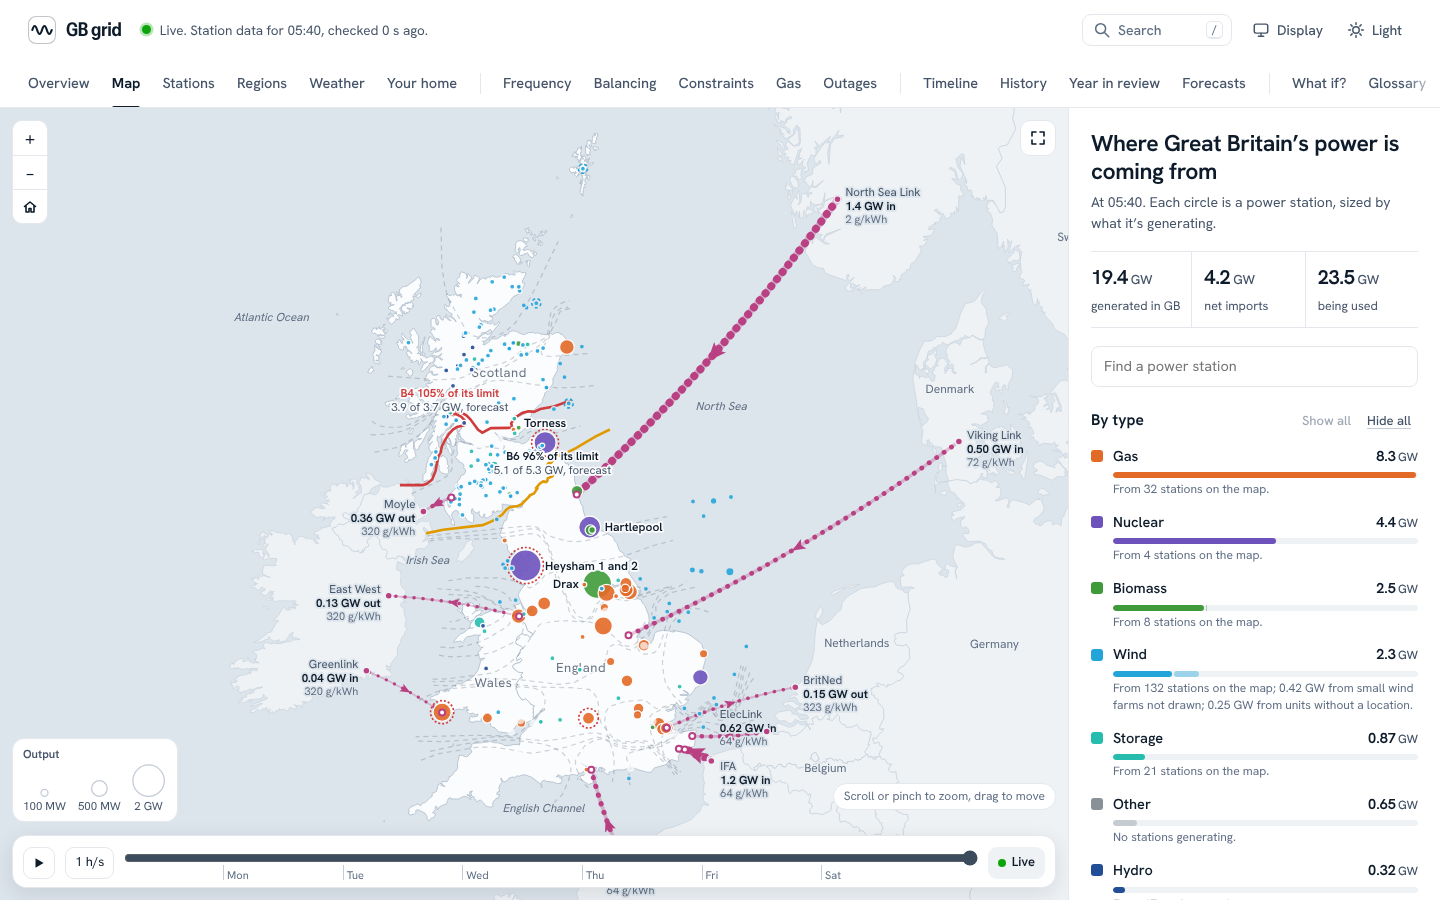
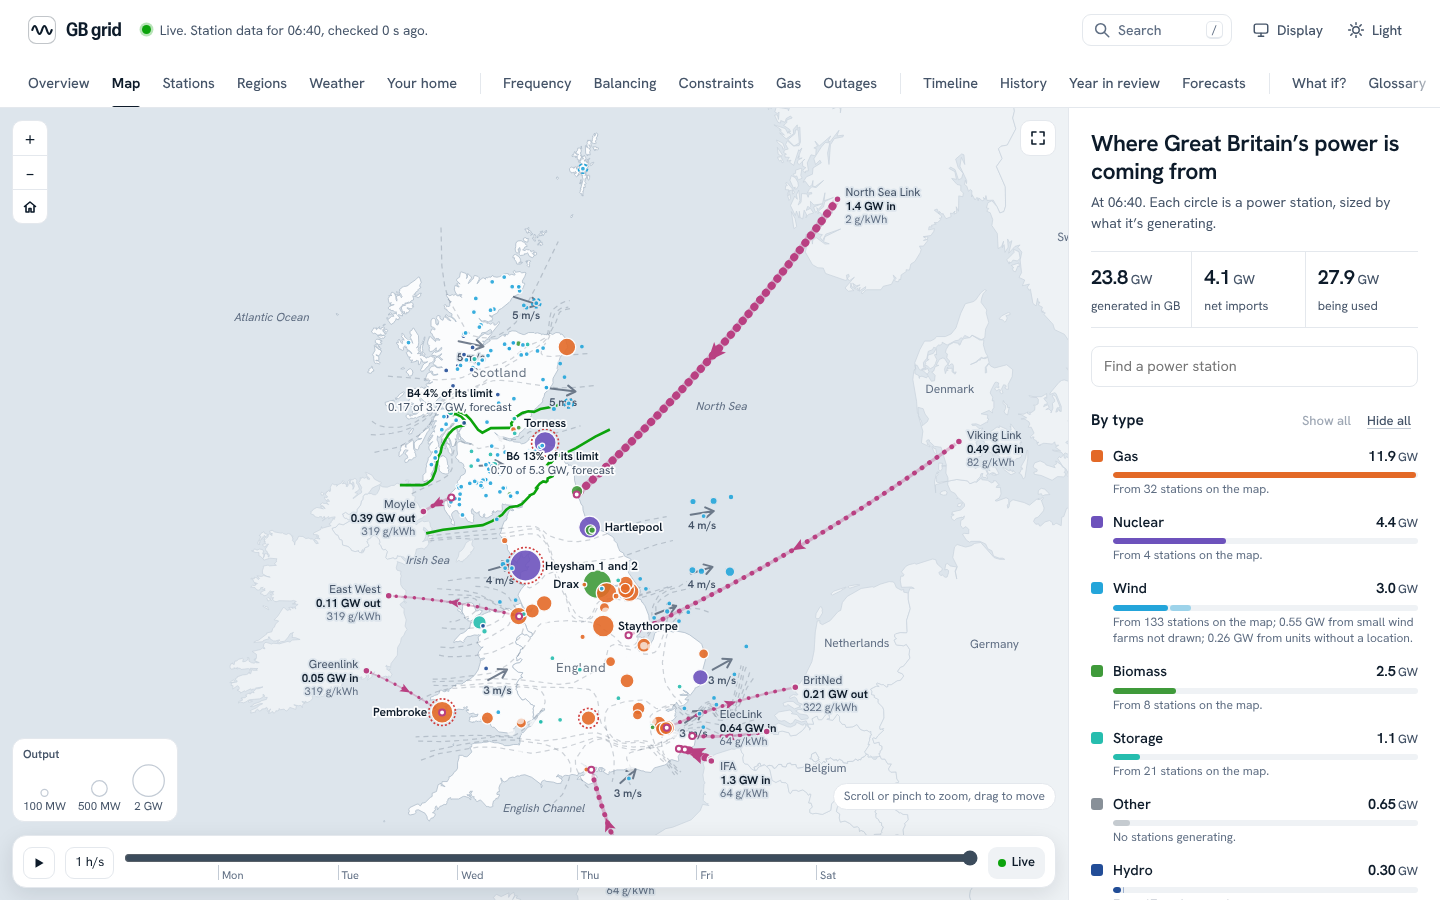
1.17.0: wind arrows on the map
An arrow at each of the Weather page's wind points, pointing the way the
wind blows 100 metres up and longer the stronger it is, with its speed, for
this hour, with its own switch. Wind direction comes in the same hourly
Open-Meteo request as wind speed. /api/map gains wind_points.

Claude-Session: https://claude.ai/code/session_01LW9oaTcT9dkVLCP8NGY6xW

diff --git a/app/static/js/stationmap.js b/app/static/js/stationmap.js
@@ -19,10 +19,11 @@
      onInteract() the person panned, zoomed or dragged
      onKey(e)     page keys first; return true if handled
      onMessage(text or null), onResize()
-     overlays()   which extras to draw: { turned: wind turned down, outages, boundaries }
+     overlays()   which extras to draw: { turned: wind turned down, outages, boundaries, wind }
                   (default: none). Station data can carry dn (MW of wind turned down) and
                   ol ({ lost, end, planned, cause } for an outage now); the payload can carry
-                  boundaries ([{ id, name, flow, lim }]) and neighbour_ci.
+                  boundaries ([{ id, name, flow, lim }]), wind_points ([{ n, x, y, v, d }],
+                  d being where the wind blows from) and neighbour_ci.
 */
 
 import { s, clear } from './dom.js';
@@ -62,10 +63,11 @@ export function createStationMap(opts) {
     M.gGeoLabels = s('g');
     M.gLinks = s('g');
     M.gRings = s('g', { 'class': 'rings' });
+    M.gWind = s('g', { 'class': 'wind' });
     M.gStations = s('g');
     M.gLabels = s('g');
     M.gEnds = s('g');
-    [M.gLand, M.gGeoLabels, M.gLinks, M.gRings, M.gStations, M.gLabels, M.gEnds].forEach(function (g) { M.svg.appendChild(g); });
+    [M.gLand, M.gGeoLabels, M.gWind, M.gLinks, M.gRings, M.gStations, M.gLabels, M.gEnds].forEach(function (g) { M.svg.appendChild(g); });
     fetch('/geo.json').then(function (r) { return r.json(); }).then(function (geo) {
       M.geo = geo;
       var inner = s('g', { transform: 'scale(0.5)' });
@@ -372,6 +374,7 @@ export function createStationMap(opts) {
     refreshStations();
     drawLinks(data.links || []);
     drawBounds(data.boundaries || []);
+    drawWind(overlay('wind') ? data.wind_points || [] : []);
     requestRedraw();
   }
 
@@ -464,6 +467,50 @@ export function createStationMap(opts) {
       }
     });
   }
+  /* The wind 100 m up at each wind point: an arrow pointing the way it blows, longer the
+     stronger it is, with its speed */
+  function drawWind(points) {
+    M.windNow = points.map(function (p) {
+      var node = (M.windNodes = M.windNodes || {})[p.n];
+      if (!node) {
+        node = M.windNodes[p.n] = { arrow: s('path', { 'class': 'wind-arrow' }), label: s('text', { 'class': 'wind-label' }) };
+        M.gWind.appendChild(node.arrow);
+        M.gWind.appendChild(node.label);
+      }
+      node.p = p;
+      node.label.textContent = Math.round(p.v) + ' m/s';
+      return node;
+    });
+    Object.keys(M.windNodes || {}).forEach(function (n) {
+      var keep = points.some(function (p) { return p.n === n; });
+      M.windNodes[n].arrow.style.display = keep ? '' : 'none';
+      M.windNodes[n].label.style.display = keep ? '' : 'none';
+    });
+  }
+  function redrawWind(taken) {
+    (M.windNow || []).forEach(function (node) {
+      var p = node.p, x = sx(p.x), y = sy(p.y);
+      // Wind direction is where it blows from; the arrow points where it's going. Screen y runs down.
+      var to = (p.d + 180) * Math.PI / 180, len = Math.min(60, 14 + 2.4 * p.v);
+      var ux = Math.sin(to), uy = -Math.cos(to);
+      var x0 = x - ux * len / 2, y0 = y - uy * len / 2, x1 = x + ux * len / 2, y1 = y + uy * len / 2;
+      var hx = -uy, hy = ux, head = 5;
+      node.arrow.setAttribute('d', 'M' + x0.toFixed(1) + ' ' + y0.toFixed(1) + 'L' + x1.toFixed(1) + ' ' + y1.toFixed(1) +
+        'M' + (x1 - ux * head * 1.6 + hx * head).toFixed(1) + ' ' + (y1 - uy * head * 1.6 + hy * head).toFixed(1) + 'L' + x1.toFixed(1) + ' ' + y1.toFixed(1) +
+        'L' + (x1 - ux * head * 1.6 - hx * head).toFixed(1) + ' ' + (y1 - uy * head * 1.6 - hy * head).toFixed(1));
+      var text = node.label.textContent, width = textWidth(text, 11, 600);
+      var lx = x, ly = y + Math.abs(uy) * len / 2 + 14;
+      var box = [lx - width / 2 - 2, ly - 11, lx + width / 2 + 2, ly + 3];
+      var show = lx > 0 && lx < M.W && ly > 10 && ly < M.H - 4 && !overlaps(box, taken);
+      node.label.style.display = show ? '' : 'none';
+      if (show) {
+        taken.push(box);
+        node.label.setAttribute('x', lx.toFixed(1));
+        node.label.setAttribute('y', ly.toFixed(1));
+      }
+    });
+  }
+
   function hideBoundLabels() { Object.keys(M.boundLabels).forEach(function (id) { M.boundLabels[id].style.display = 'none'; }); }
 
   /* Boundary labels go first, so the lines they explain are never left bare */
@@ -566,6 +613,7 @@ export function createStationMap(opts) {
     placeBoundLabels(taken);
     placeLinkLabels(taken);
     drawStationLabels(taken);
+    redrawWind(taken);
     placeGeoLabels(taken);
     drawSizeKey();
   }

diff --git a/app/map.html b/app/map.html
@@ -56,7 +56,8 @@
       <label class="switch"><input type="checkbox" id="layer-turned" checked> <i class="sw ring ring-turned-sw" aria-hidden="true"></i> Wind turned down by NESO now</label>
       <label class="switch"><input type="checkbox" id="layer-outages" checked> <i class="sw ring ring-out-sw" aria-hidden="true"></i> Stations with an outage now</label>
       <label class="switch"><input type="checkbox" id="layer-boundaries" checked> <i class="sw line bnd-sw" aria-hidden="true"></i> Transmission boundaries</label>
-      <p class="layer-note">A dashed ring shows what a wind farm would be making if NESO hadn’t turned it down, or the capacity a station has out. Boundaries NESO forecasts for this half hour are coloured by flow against limit: <span class="bnd-key ok">under 90%</span>, <span class="bnd-key near">90% or more</span>, <span class="bnd-key over">over</span>.</p>
+      <label class="switch"><input type="checkbox" id="layer-wind" checked> <i class="sw wind-sw" aria-hidden="true"></i> Wind 100 m up, the height of a turbine’s hub</label>
+      <p class="layer-note">A dashed ring shows what a wind farm would be making if NESO hadn’t turned it down, or the capacity a station has out. Boundaries NESO forecasts for this half hour are coloured by flow against limit: <span class="bnd-key ok">under 90%</span>, <span class="bnd-key near">90% or more</span>, <span class="bnd-key over">over</span>. Wind arrows point the way it’s blowing, longer the stronger, at the points among the wind farms the Weather page uses, for this hour, from Open-Meteo.</p>
       <h2>Interconnectors <span class="aside" id="net"></span></h2>
       <ul class="ic" id="ic"></ul>
       <h2>Not shown on the map</h2>

diff --git a/app/static/pages/map.js b/app/static/pages/map.js
@@ -14,7 +14,7 @@ var state = {
   hidden: {}, showIdle: true, selected: null, highlight: null, stationHistory: {}, cards: {},
   sort: { key: 'mw', dir: -1 }, query: '', nation: 'all', cats: {}, includeIdle: false,
   openRow: null, showAll: false, fuelOrder: null, fuelOrderTime: null,
-  layers: { turned: true, outages: true, boundaries: true }
+  layers: { turned: true, outages: true, boundaries: true, wind: true }
 };
 try {
   var saved = JSON.parse(localStorage.getItem('gb-grid-map') || '{}');
@@ -983,7 +983,7 @@ byId('fuels-none').addEventListener('click', function () { setHidden(function ()
 // Belt and braces: leaving the list always ends a preview
 byId('fuels').addEventListener('pointerleave', function () { clicked = null; preview(null); });
 byId('idle-toggle').addEventListener('change', function (e) { state.showIdle = e.target.checked; savePrefs(); map.restyle(); });
-['turned', 'outages', 'boundaries'].forEach(function (k) {
+['turned', 'outages', 'boundaries', 'wind'].forEach(function (k) {
   var box = byId('layer-' + k);
   box.checked = state.layers[k];
   box.addEventListener('change', function () { state.layers[k] = box.checked; savePrefs(); map.draw(); });

diff --git a/app/static/pages/map.css b/app/static/pages/map.css
@@ -236,3 +236,6 @@ th[aria-sort] .sort-btn { color: var(--ink); font-weight: 600; }
 .bnd-key::before { content: ''; display: inline-block; width: 12px; height: 0; border-top: 2.4px solid var(--good); margin: 0 4px 3px 0; vertical-align: middle; }
 .bnd-key.near::before { border-top-color: var(--warn); }
 .bnd-key.over::before { border-top-color: var(--bad); }
+.sw.wind-sw { width: 16px; height: 10px; background: none; flex: none; position: relative; }
+.sw.wind-sw::before { content: ''; position: absolute; left: 0; right: 3px; top: 4px; border-top: 2px solid var(--ink-2); }
+.sw.wind-sw::after { content: ''; position: absolute; right: 0; top: 1px; width: 6px; height: 6px; border-top: 2px solid var(--ink-2); border-right: 2px solid var(--ink-2); transform: rotate(45deg); transform-origin: center; }

diff --git a/app/static/stationmap.css b/app/static/stationmap.css
@@ -49,3 +49,5 @@
 .bnd-label tspan:first-child { font-weight: 650; fill: var(--ink); }
 .bnd-label.over tspan:first-child { fill: var(--bad); }
 .link-label .ci { font-size: 11px; fill: var(--muted); }
+.wind-arrow { fill: none; stroke: var(--ink-2); stroke-opacity: 0.75; stroke-width: 2; stroke-linecap: round; stroke-linejoin: round; pointer-events: none; }
+.wind-label { font-size: 11px; font-weight: 600; fill: var(--ink-2); text-anchor: middle; paint-order: stroke; stroke: var(--sea); stroke-width: 3px; stroke-linejoin: round; pointer-events: none; }

diff --git a/app/gridlive/weather.py b/app/gridlive/weather.py
@@ -24,6 +24,7 @@ from .config import OPEN_METEO, log
 from .fetch import FetchError, as_float
 from .reference import PES_REGIONS, REGION_NAMES
 from .timeutil import uk_clock
+from .units import map_point
 
 FIRST_DAYS = 92             # history on the first run (Open-Meteo's most)
 PAST_DAYS = 2
@@ -31,6 +32,8 @@ AHEAD_DAYS = 8              # today and a week ahead
 KEEP = 100 * 86400
 
 VARIABLES = {'wind': 'wind_speed_100m', 'temp': 'temperature_2m', 'sun': 'shortwave_radiation'}
+# Asked for alongside wind speed, in the same request: where the wind blows from, in degrees
+DIRECTION = 'wind_direction_100m'
 
 # Wind: points among Britain's wind farms. Each farm in the station list counts towards the
 # nearest point, by capacity.
@@ -112,7 +115,7 @@ class Weather:
     def fetch(self, kind, points, past_days):
         """One request for every point; stores the weighted British value for each hour."""
         query = {'latitude': ','.join('%.3f' % p[1] for p in points), 'longitude': ','.join('%.3f' % p[2] for p in points),
-                 'hourly': VARIABLES[kind], 'timeformat': 'unixtime', 'timezone': 'GMT',
+                 'hourly': VARIABLES[kind] + (',' + DIRECTION if kind == 'wind' else ''), 'timeformat': 'unixtime', 'timezone': 'GMT',
                  'past_days': past_days, 'forecast_days': AHEAD_DAYS}
         if kind == 'wind':
             query['wind_speed_unit'] = 'ms'
@@ -120,11 +123,19 @@ class Weather:
         places = payload if isinstance(payload, list) else [payload]
         if len(places) != len(points) or not all(isinstance(p, dict) and isinstance(p.get('hourly'), dict) for p in places):
             raise FetchError('Unexpected response shape from Open-Meteo')
-        series = []
-        for place in places:
+        series, each = [], []
+        for point, place in zip(points, places):
             hourly = place['hourly']
             times, values = hourly.get('time') or [], hourly.get(VARIABLES[kind]) or []
             series.append({int(t): as_float(v) for t, v in zip(times, values)})
+            if kind == 'wind':
+                # Each point's own speed and direction, for the arrows on the map
+                for t, v, d in zip(times, values, hourly.get(DIRECTION) or [None] * len(times)):
+                    v, d = as_float(v), as_float(d)
+                    if v is not None and d is not None:
+                        each.append((point[0], int(t), round(v, 2), round(d % 360)))
+        if each:
+            self.store.write('INSERT OR REPLACE INTO wxp (p, t, v, d) VALUES (?, ?, ?, ?)', each, history=False)
         merged = weighted(series, [p[3] for p in points])
         digits = 1 if kind == 'sun' else 2
         rows = [(kind, t, round(v, digits)) for t, v in merged.items()]
@@ -143,10 +154,21 @@ class Weather:
             except FetchError as error:
                 errors.append('%s: %s' % (kind, error))
         self.store.write('DELETE FROM wx WHERE t < ?', [(now - KEEP,)], history=False)
+        self.store.write('DELETE FROM wxp WHERE t < ?', [(now - KEEP,)], history=False)
         if len(errors) == len(VARIABLES):
             raise FetchError('; '.join(errors))
         if errors:
             log.warning('[weather] %s', '; '.join(errors))
+
+
+
+def wind_points(store, now):
+    """The wind 100 m up at each of the wind points for the hour now, for the map's arrows:
+    [{n, x, y, v (m/s), d (degrees it blows from), t}]. Nothing if the hour isn't in yet."""
+    hour = int(now - now % 3600)
+    where = {p[0]: map_point(p[1], p[2]) for p in WIND_POINTS}
+    return [{'n': name, 'x': where[name][0], 'y': where[name][1], 'v': v, 'd': d, 't': hour}
+            for name, v, d in store.query('SELECT p, v, d FROM wxp WHERE t = ? ORDER BY p', (hour,)) if name in where]
 
 
 # ---- the page ---------------------------------------------------------------------

diff --git a/test/mock_upstream.py b/test/mock_upstream.py
@@ -481,6 +481,8 @@ def weather_value(var, t, lat, lon):
     if var == 'wind_speed_100m':
         gust = 0.55 + 0.45 * math.sin(t / 41000.0) + 0.25 * math.sin(t / 9000.0 + 1.3) + 0.2 * season
         return round(max(0.5, 3 + 9 * gust + 0.3 * (lat - 54)), 2)
+    if var == 'wind_direction_100m':      # where it blows from: veering slowly round the south-west
+        return round((235 + 55 * math.sin(t / 52000.0) + 8 * (lat - 54)) % 360)
     if var == 'temperature_2m':
         return round(10 - 4 * season + 4 * math.sin(math.pi * (hour_of_day(t) - 9) / 12) + 3 * math.sin(t / 300000.0) - 0.6 * (lat - 52), 1)
     if var == 'shortwave_radiation':     # the mean over the hour before t
@@ -494,20 +496,22 @@ WEATHER_ASKED = []
 def open_meteo(q):
     WEATHER_ASKED.append(q)
     lats, lons = [float(x) for x in q['latitude'].split(',')], [float(x) for x in q['longitude'].split(',')]
-    var = q.get('hourly')
-    if len(lats) != len(lons) or var not in ('wind_speed_100m', 'temperature_2m', 'shortwave_radiation'):
+    names = (q.get('hourly') or '').split(',')
+    units = {'wind_speed_100m': 'm/s', 'wind_direction_100m': '°', 'temperature_2m': '°C', 'shortwave_radiation': 'W/m²'}
+    if len(lats) != len(lons) or not names or any(n not in units for n in names):
         return 400, {'error': True, 'reason': 'mock: bad request'}
-    if var == 'wind_speed_100m' and q.get('wind_speed_unit') != 'ms':
+    if 'wind_speed_100m' in names and q.get('wind_speed_unit') != 'ms':
         return 400, {'error': True, 'reason': 'mock: wind would be in km/h'}
     if q.get('timeformat') != 'unixtime' or q.get('timezone') != 'GMT':
         return 400, {'error': True, 'reason': 'mock: expected unixtime and GMT'}
     today = int(_clock.time() // 86400 * 86400)
     times = list(range(today - int(q.get('past_days', 0)) * 86400, today + int(q.get('forecast_days', 7)) * 86400, 3600))
-    unit = {'wind_speed_100m': 'm/s', 'temperature_2m': '°C', 'shortwave_radiation': 'W/m²'}[var]
     out = []
     for i, (lat, lon) in enumerate(zip(lats, lons)):
-        place = {'latitude': lat, 'longitude': lon, 'timezone': 'GMT', 'hourly_units': {'time': 'unixtime', var: unit},
-                 'hourly': {'time': times, var: [weather_value(var, x, lat, lon) for x in times]}}
+        hourly = {'time': times}
+        hourly.update({n: [weather_value(n, x, lat, lon) for x in times] for n in names})
+        place = {'latitude': lat, 'longitude': lon, 'timezone': 'GMT', 'hourly_units': dict({'time': 'unixtime'}, **{n: units[n] for n in names}),
+                 'hourly': hourly}
         if i:
             place['location_id'] = i
         out.append(place)

diff --git a/test/test_weather.py b/test/test_weather.py
@@ -133,7 +133,8 @@ job = wx.Weather(fresh)
 mock.WEATHER_ASKED.clear()
 job.poll()
 asked = [(q['hourly'], q['past_days']) for q in mock.WEATHER_ASKED]
-check('poll: three requests, 92 days back the first time', sorted(asked) == sorted([(v, '92') for v in wx.VARIABLES.values()]), asked)
+check('poll: three requests, 92 days back the first time, with wind direction alongside wind speed',
+      sorted(asked) == sorted([('wind_speed_100m,wind_direction_100m', '92'), ('temperature_2m', '92'), ('shortwave_radiation', '92')]), asked)
 check('poll: wind at the equal-weight points without a station list', mock.WEATHER_ASKED[0]['latitude'].count(',') == len(wx.WIND_POINTS) - 1)
 mock.WEATHER_ASKED.clear()
 job.poll()
@@ -151,6 +152,20 @@ try:
 except server.FetchError as error:
     check('poll: says which', 'wind' in str(error) and 'sun' in str(error))
 wx.fetch.get_json = real_get
+
+# Each wind point's own speed and direction, for the map's arrows
+at = time.time()
+hour = int(at - at % 3600)
+arrows = wx.wind_points(fresh, at)
+names = [p[0] for p in wx.WIND_POINTS]
+check('arrows: one a point for the hour now', sorted(a['n'] for a in arrows) == sorted(names) and all(a['t'] == hour for a in arrows), (sorted(set(names) - set(a['n'] for a in arrows)), len(arrows)))
+first = next(a for a in arrows if a['n'] == 'Hornsea')
+p = next(p for p in wx.WIND_POINTS if p[0] == 'Hornsea')
+check('arrows: speed and direction as Open-Meteo gives them', first['v'] == mock.weather_value('wind_speed_100m', hour, p[1], p[2]) and
+      first['d'] == mock.weather_value('wind_direction_100m', hour, p[1], p[2]) % 360, first)
+check('arrows: placed on the map', [first['x'], first['y']] == wx.map_point(p[1], p[2]))
+check('arrows: kept as long as the rest', fresh.scalar('SELECT COUNT(*) FROM wxp WHERE p = ?', ('Hornsea',)) == 100 * 24)
+check('arrows: nothing for an hour not fetched', wx.wind_points(fresh, at + 30 * 86400) == [])
 
 v = wx.view(fresh, time.time())
 check('view: a week ahead from the mock', v['ready'] and len(v['week']) >= 9 * 24 - 2, len(v['week']))

diff --git a/app/gridlive/store.py b/app/gridlive/store.py
@@ -133,6 +133,7 @@ class Store:
                 end INTEGER, p REAL NOT NULL, PRIMARY KEY (tariff, kind, start)) WITHOUT ROWID;
             CREATE TABLE IF NOT EXISTS gas_flow (k TEXT NOT NULL, t INTEGER NOT NULL, v REAL NOT NULL, PRIMARY KEY (k, t)) WITHOUT ROWID;
             CREATE TABLE IF NOT EXISTS gas_daily (d TEXT NOT NULL, k TEXT NOT NULL, v REAL NOT NULL, PRIMARY KEY (d, k)) WITHOUT ROWID;
+            CREATE TABLE IF NOT EXISTS wxp (p TEXT NOT NULL, t INTEGER NOT NULL, v REAL NOT NULL, d REAL NOT NULL, PRIMARY KEY (p, t)) WITHOUT ROWID;
             CREATE TABLE IF NOT EXISTS wx (k TEXT NOT NULL, t INTEGER NOT NULL, v REAL NOT NULL, PRIMARY KEY (k, t)) WITHOUT ROWID;
             CREATE TABLE IF NOT EXISTS ext_ci (zone TEXT NOT NULL, t INTEGER NOT NULL, v REAL NOT NULL, PRIMARY KEY (zone, t)) WITHOUT ROWID;
             CREATE TABLE IF NOT EXISTS sysp (t INTEGER PRIMARY KEY, d TEXT NOT NULL, sp INTEGER NOT NULL, sell REAL, buy REAL, niv REAL) WITHOUT ROWID;

diff --git a/app/gridlive/views_map.py b/app/gridlive/views_map.py
@@ -11,6 +11,7 @@ from .timeutil import floor_to
 from .store import STATION_HISTORY_DAYS
 from .photos import file_key
 from .constraints import label as constraint_label
+from .weather import wind_points
 from .units import CATEGORY_LABELS, CATEGORY_ORDER, FUEL_NAMES, LINK_ENDS, map_point
 
 
@@ -93,6 +94,7 @@ class MapViews:
             'neighbour_ci': {c['country']: c.get('ci') for c in live.get('countries', [])},
             'imports_ci': live.get('imports_ci'),
             'boundaries': self.map_boundaries(time.time()),
+            'wind_points': wind_points(self.store, time.time()),
         }
         for link in live.get('links', []):
             item = {'code': link['code'], 'name': link['name'], 'country': link['country'], 'note': link['note'],

diff --git a/README.md b/README.md
@@ -85,6 +85,10 @@ Three more things can go on the map, each with its own switch beside it:
   north of Scotland to the Central Belt) and B6 (Scotland to England)
   coloured by NESO's day-ahead forecast of flow against limit for this half
   hour, and labelled with both.
+- **Wind 100 m up:** an arrow at each of the Weather page's dozen points
+  among the wind farms, pointing the way the wind is blowing and longer the
+  stronger it is, with its speed, for this hour. A wind farm making little
+  in a strong wind is then easy to spot as turned down rather than becalmed.
 
 Each interconnector's label also gives its country's carbon intensity, live
 or typical, as on the Overview.
@@ -136,7 +140,8 @@ days of how the grid answered: wind farms' output as a share of capacity
 against wind speed (a power curve, counting what they were turned down),
 each day's demand against its temperature, with how much each degree colder
 adds on a working day, and solar output against sunshine. Three requests an
-hour; the first run also fetches the last 92 days.
+hour (wind direction comes in the same request as wind speed, for the Map's
+arrows); the first run also fetches the last 92 days.
 
 ![The weather page](docs/weather.png)
 

diff --git a/CHANGELOG.md b/CHANGELOG.md
@@ -4,6 +4,15 @@ Notable changes in each release. Version numbers follow
 [semantic versioning](https://semver.org/), so the `1` image tag only moves to
 releases that keep working with your existing settings and data.
 
+## 1.17.0 (unreleased)
+
+- **Wind on the map:** an arrow at each of the dozen points among the wind
+  farms that the Weather page uses, pointing the way the wind is blowing 100
+  metres up and longer the stronger it is, with its speed, for this hour.
+  It has its own switch with the others. Wind direction comes in the same
+  hourly Open-Meteo request as wind speed, so there are no extra requests.
+- `/api/map` gains `wind_points`.
+
 ## 1.16.0 (2026-11-15)
 
 - **Also on the map**, each with a switch: wind farms NESO is turning down
